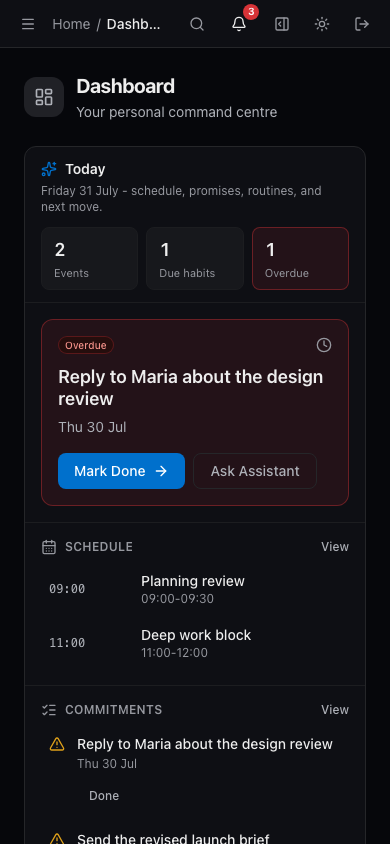
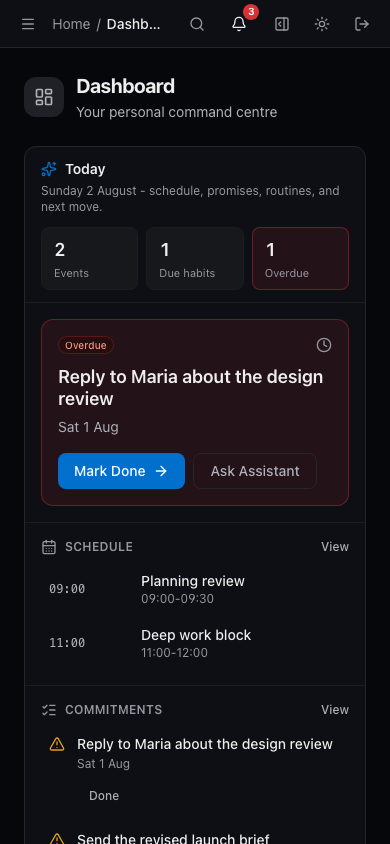
Align release docs and screenshots

Changed region(s): [[0.1231, 0.2156, 0.8615, 0.2464], [0.1538, 0.4929, 0.3385, 0.5237], [0.1846, 0.8934, 0.3385, 0.9242]]

diff --git a/frontend/e2e/showcase.spec.ts b/frontend/e2e/showcase.spec.ts
@@ -1,4 +1,5 @@
 import { fileURLToPath } from "node:url";
+import type { Page } from "@playwright/test";
 import { expect, test } from "@playwright/test";
 import { installCriticalPathMocks } from "./helpers/critical-path-mocks";
 
@@ -9,8 +10,19 @@ test.skip(
   "Run `npm run capture:showcase` to refresh public sample screenshots.",
 );
 
-test("captures the fixture-only mobile dashboard", async ({ page }) => {
-  await page.setViewportSize({ width: 390, height: 844 });
+async function captureDashboard(
+  page: Page,
+  {
+    width,
+    height,
+    filename,
+  }: {
+    width: number;
+    height: number;
+    filename: string;
+  },
+) {
+  await page.setViewportSize({ width, height });
   await installCriticalPathMocks(page);
   await page.goto("/dashboard");
   await page.waitForLoadState("networkidle", { timeout: 5_000 }).catch(() => undefined);
@@ -18,8 +30,24 @@ test("captures the fixture-only mobile dashboard", async ({ page }) => {
 
   await expect(page.getByRole("heading", { name: "Dashboard" })).toBeVisible();
   await page.screenshot({
-    path: `${repositoryRoot}/docs/assets/product-mobile.png`,
+    path: `${repositoryRoot}/docs/assets/${filename}`,
     fullPage: true,
     animations: "disabled",
+  });
+}
+
+test("captures the fixture-only desktop dashboard", async ({ page }) => {
+  await captureDashboard(page, {
+    width: 1440,
+    height: 1080,
+    filename: "product-overview.png",
+  });
+});
+
+test("captures the fixture-only mobile dashboard", async ({ page }) => {
+  await captureDashboard(page, {
+    width: 390,
+    height: 844,
+    filename: "product-mobile.png",
   });
 });

diff --git a/scripts/public_release_audit.py b/scripts/public_release_audit.py
@@ -105,10 +105,10 @@ _ALLOWED_BINARY_PATHS = frozenset(
 _REVIEWED_BINARY_SHA256 = {
     # Fictional E2E data only; update after visually reviewing any replacement.
     "docs/assets/product-mobile.png": (
[2 lines of base64/hex data omitted]
     ),
     "docs/assets/product-overview.png": (
[2 lines of base64/hex data omitted]
     ),
 }
 

diff --git a/docs/ARCHITECTURE.md b/docs/ARCHITECTURE.md
@@ -743,19 +743,24 @@ See [ADR-0004](decisions/ADR-0004-progressive-web-app.md).
   `create_app()` and `lifespan()`.
 - `src/app/config.py`: typed settings and gates; start at `Settings`.
 - `src/app/api/`: HTTP dependencies, middleware, schemas, routes, idempotency,
-  and limits; start at `deps.py`, then the feature route.
+  and limits; start at `deps.py`, then the feature route. Monitoring keeps its
+  public facade in `routes/monitoring.py` and groups implementations in the
+  adjacent `monitoring_*` modules.
 - `src/app/domain/models.py`: transport-independent contracts; start at
   `MessageInput`, `ChatResponse`, and `Specialist`.
 - `src/app/domain/services/`: application use cases; use the feature service or
-  `chat.py` for model orchestration.
+  `chat.py` for model orchestration. Chat phases are separated into the
+  adjacent `_chat_context`, `_chat_execution`, `_chat_persistence`, and
+  `_chat_quality` modules.
 - `src/app/domain/services/handlers/`: chat specialist adapters; read
   `_common.py`, then one handler.
 - `src/app/agents/`: prompts, model calls, graphs, and dormant compatibility;
   start at the relevant prompt/specialist, not the legacy graph.
 - `src/app/core/`: security, context, evaluation, telemetry, and adapters;
   follow imports from the use case.
-- `src/app/persistence/models.py`: current ORM view; read scope mixins before a
-  feature model.
+- `src/app/persistence/models.py`: stable ORM import facade; declarations are
+  grouped by feature under `model_defs/`. Read `model_defs/base.py` before a
+  feature declaration.
 - `src/app/persistence/repositories/`: reusable durable queries; choose the
   repository matching the route.
 - `src/app/persistence/migrations/`: schema and policy history;
@@ -769,6 +774,8 @@ See [ADR-0004](decisions/ADR-0004-progressive-web-app.md).
 - `frontend/src/main.tsx` and `router.tsx`: browser bootstrap and route tree.
 - `frontend/src/api/`: HTTP boundary; read `client.ts`, then a resource module.
 - `frontend/src/pages/` and `components/`: route experiences and reusable UI.
+  The public landing page is split into content, sections, visuals, and
+  primitives under `frontend/src/components/landing/`.
 - `tests/unit/`: isolated behavior; match the implementation module.
 - `tests/integration/`: cross-layer API and real-PostgreSQL evidence.
 - `tests/contract/`: generated and behavioral OpenAPI checks.

diff --git a/docs/DEVELOPER_GUIDE.md b/docs/DEVELOPER_GUIDE.md
@@ -162,14 +162,18 @@ Use these as entry points rather than reading directories front to back.
 - **API contracts/transactions:** `src/app/api/routes/`, `schemas.py`, and
   `transactions.py`; route, OpenAPI, contract, and repository tests.
 - **Domain/chat:** `src/app/domain/models.py` and
-  `services/chat.py:process_message`; service/handler/integration tests.
+  `services/chat.py:process_message`; follow the imports into
+  `_chat_context.py`, `_chat_execution.py`, `_chat_persistence.py`, and
+  `_chat_quality.py` for the individual phases.
 - **Intent/specialists:** `services/orchestrator.py` and `handlers/`; routing
   and handler tests.
 - **Model-backed code:** `src/app/agents/`; agent, prompt, graph, and evaluation
   tests.
 - **Shared policy:** `src/app/core/`; matching focused unit tests.
-- **Persistence:** `models.py`, `repositories/`, `database.py`, and migration
-  versions; repository, real-database, RLS, and migration evidence.
+- **Persistence:** `models.py` is the stable import facade; declarations live
+  under `model_defs/`. Read `model_defs/base.py` before the feature declaration,
+  then `repositories/`, `database.py`, and the relevant migration versions.
+  Repository, real-database, RLS, and migration tests provide the evidence.
 - **Workers:** `src/app/workers/main.py`; worker lifecycle/schedule tests.
 - **Knowledge algorithms:** `src/app/second_brain/`; matching algorithm tests.
 
@@ -179,8 +183,9 @@ Use these as entry points rather than reading directories front to back.
   browser tests.
 - **HTTP/resources:** `api/client.ts` and `api/*.ts`; API-client, resource, and
   page tests.
-- **Pages/components:** `pages/` and `components/`; tests under corresponding
-  `frontend/tests/` folders.
+- **Pages/components:** `pages/` and `components/`; the public landing page is
+  split under `components/landing/` into content, sections, visuals, and
+  primitives. Tests live under the corresponding `frontend/tests/` folders.
 - **Device preferences:** `stores/app.ts`; store tests.
 - **Browser acceptance:** `frontend/e2e/`; the Playwright CI job.
 

diff --git a/docs/RELEASING.md b/docs/RELEASING.md
@@ -23,8 +23,8 @@ They do not decide whether the named public repository is the right one.
 
 ## Verify the source tree
 
-Start from the proposed commit in a fresh clone or a `git archive` extraction.
-The source tree must have no uncommitted files:
+Start from the proposed commit in a fresh clone. The source tree must have no
+uncommitted files:
 
 ```sh
 git status --short
@@ -33,6 +33,11 @@ python3 scripts/public_release_audit.py --root . --git-metadata
 gitleaks git --redact --no-banner .
 uv run pre-commit run --all-files
 ```
+
+If you are separately reviewing a `git archive` extraction, it has no `.git`
+directory. Run the tree audit without `--git-metadata`; run the history,
+identity, status, and pre-commit checks in the clean clone that produced the
+archive.
 
 The full privacy audit intentionally inspects ignored files. If it reports a
 generated coverage file or browser report, remove that generated output from

diff --git a/docs/FIRST_TEN_MINUTES.md b/docs/FIRST_TEN_MINUTES.md
@@ -87,9 +87,10 @@ to due work, today's schedule, and active routines. With providers still
 disabled, external calendar and mail context should remain unavailable rather
 than showing invented data.
 
-Open **Today** from the primary navigation as well. A new workspace will still
-look sparse. Its summaries become more useful after you add deadlines,
-commitments, routine completions, and diary records over time.
+Open **Dashboard** from the primary navigation as well. Its **Today** panel
+summarises due work, the current schedule, commitments, and routines. A new
+workspace will still look sparse; the summaries become more useful after you
+add deadlines, commitments, routine completions, and diary records over time.
 
 ## 6. Confirm the safety boundary
 
